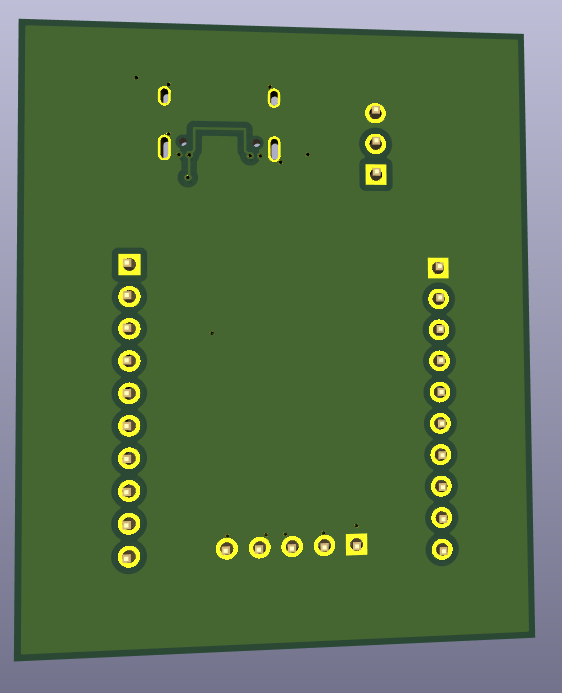
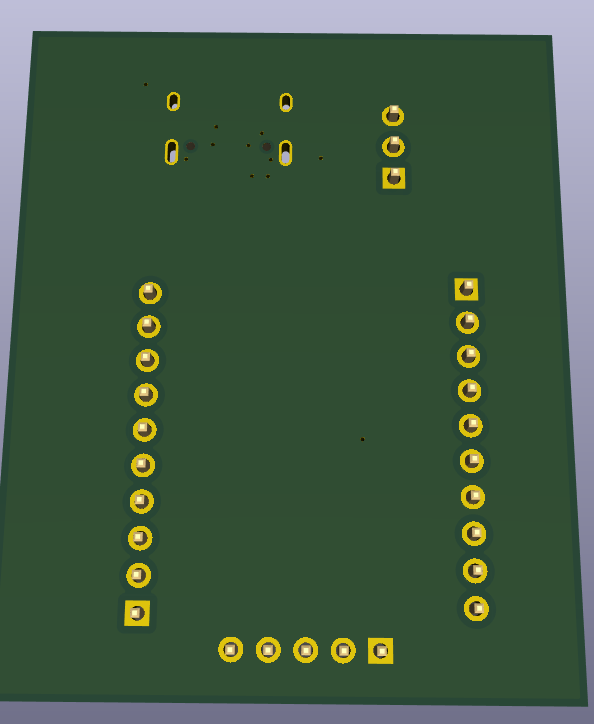
change to CH32

diff --git a/README.md b/README.md
@@ -1,4 +1,4 @@
-# PY32F002AF15P6TU Development Board
+# CH32X033F8P6 Development Board
 
 ![pcb-layout](images/pcb-layout.png)
 ![pcb-front-3dView](images/pcb-front-3dView.png)
@@ -6,7 +6,7 @@
 
 ## Purpose
 
-This project was developed by **Param Makers Adda** to provide an open hardware development board based on the **PY32F002AF15P6TU** microcontroller. The design is intended to be studied, modified, manufactured, and improved by anyone under the terms of the CERN Open Hardware Licence Version 2 – Weakly Reciprocal (CERN-OHL-W v2).
+This project was developed by **Param Makers Adda** to provide an open hardware development board based on the **CH32X033F8P6** microcontroller. The design is intended to be studied, modified, manufactured, and improved by anyone under the terms of the CERN Open Hardware Licence Version 2 – Weakly Reciprocal (CERN-OHL-W v2).
 
 Copyright © 2026 Param Makers Adda
 
